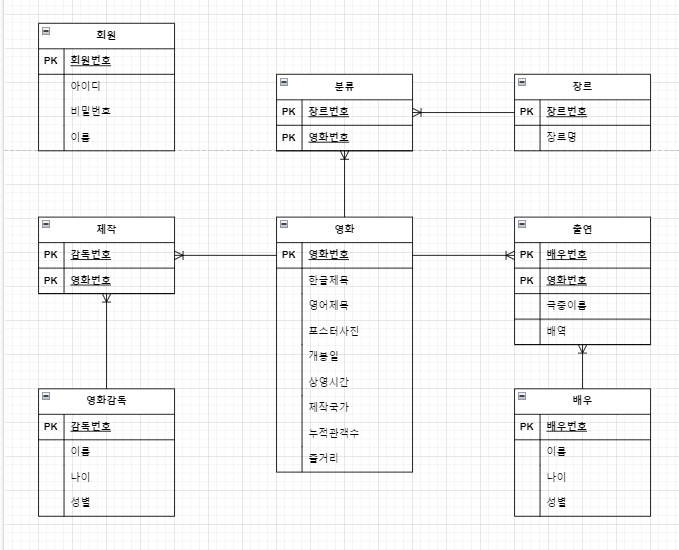
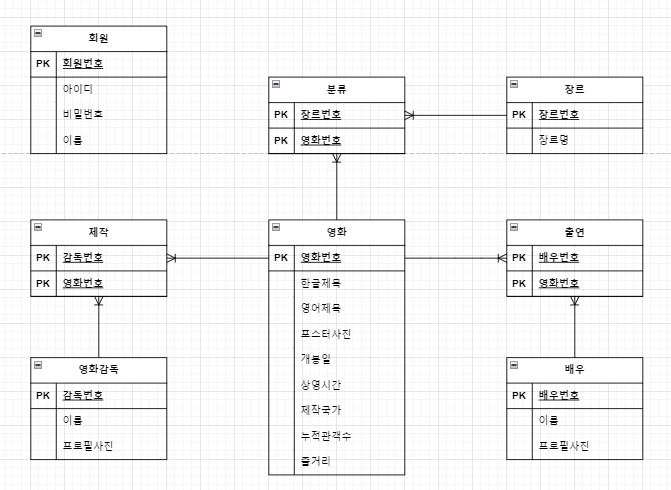
Update 01

diff --git a/_posts/2024-02-04-movie-01.md b/_posts/2024-02-04-movie-01.md
@@ -51,8 +51,8 @@ MVP 모델의 기능으로 로그인, 회원가입, 영화 정보 제공 3가지
   - 상영시간
   - 제작국가
   - 누적관객수
-  - 영화감독 (이름, 나이, 성별)
-  - 배우 (이름, 나이, 성별, 극중이름, 배역)
+  - 영화감독 (이름, 프로필사진)
+  - 배우 (이름, 프로필사진)
   - 줄거리
 
 ---
@@ -67,13 +67,13 @@ MVP 모델의 기능으로 로그인, 회원가입, 영화 정보 제공 3가지
 
 먼저 요구사항을 정리합니다.
 
-1. 영화에 대해서는 포스터사진, 한글제목, 영어제목, 장르, 개봉일, 상영시간, 제작국가, 누적관객수, 줄거리, 배우, 감독 등의 정보가 유지되어야합니다.
+1. 영화에 대해서는 포스터사진, 한글제목, 영어제목, 개봉일, 상영시간, 제작국가, 누적관객수, 줄거리, 장르, 배우, 감독 등의 정보가 유지되어야합니다.
 
-2. 영화감독에 대해서는 이름, 나이, 성별 등의 정보가 유지되어야합니다.
+2. 영화감독에 대해서는 이름, 프로필사진 등의 정보가 유지되어야합니다.
 
 3. 한 영화를 여러 영화감독들이 제작할 수 있습니다.
 
-4. 배우에 대해서는 이름, 나이, 성별 등의 정보가 유지되어야 합니다.
+4. 배우에 대해서는 이름, 프로필사진 등의 정보가 유지되어야 합니다.
 
 5. 한 영화에는 여러 배우들이 출연할 수 있으며 극중이름과 배역이 정해집니다.
 
@@ -85,9 +85,9 @@ MVP 모델의 기능으로 로그인, 회원가입, 영화 정보 제공 3가지
 
 - 요구사항 1번에서 **영화 엔티티**의 속성으로 **영화번호**, **한글제목**, **영어제목**, **포스터사진**, **장르**, **개봉일**, **상영시간**, **제작국가**, **누적관객수**, **줄거리**를 얻을 수 있습니다.
 
-- 요구사항 2번에서 **영화감독 엔티티**의 속성으로 **감독번호**, **이름**, **나이**, **성별**을 얻을 수 있습니다.
+- 요구사항 2번에서 **영화감독 엔티티**의 속성으로 **감독번호**, **이름**, **프로필사진**을 얻을 수 있습니다.
 
-- 요구사항 4번에서 **배우 엔티티**의 속성으로 **배우번호**, **이름**, **나이**, **성별**을 얻을 수 있습니다.
+- 요구사항 4번에서 **배우 엔티티**의 속성으로 **배우번호**, **이름**, **프로필사진**을 얻을 수 있습니다.
 
 - 요구사항 6번에서 **회원 엔티티**의 속성으로 **회원번호**, **아이디**, **비밀번호**, **이름**을 얻을 수 있습니다.
 
@@ -146,12 +146,28 @@ ER 다이어그램을 기반으로 테이블 명세서를 작성하기전 정규
 
 릴레이션 스키마로 변환은 생략하고 ER 다이어그램에서 바로 테이블 명세서를 작성해보겠습니다.
 
-![movie-table-specs-01](/assets/img/ex-01-table-specs-01.png)
+![movie-table-specs-01](/assets/img/movie-table-specs-01.png)
 
-![movie-table-specs-02](/assets/img/ex-01-table-specs-02.png)
+![movie-table-specs-02](/assets/img/movie-table-specs-02.png)
 
 ---
 
 마지막으로 DB 명명 규칙에 따라 변환한 테이블 명세서를 작성합니다.
 
 > 참고 글 : [DB 명명 규칙](https://psmin1994.github.io/posts/db-naming/)
+
+![movie-table-specs-03](/assets/img/movie-table-specs-03.png)
+
+![movie-table-specs-04](/assets/img/movie-table-specs-04.png)
+
+---
+
+### 물리적 데이터 모델링
+
+이제 Workbench에 테이블 명세서를 바탕으로 ER 다이어그램을 작성합니다
+
+> 참고 글 : [물리적 데이터 모델링](https://psmin1994.github.io/posts/physical-modeling/)
+
+Workbench의 **Forward Engineer**를 활용해 테이블을 생성하겠습니다.
+
+![movie-workbench-erd](/assets/img/movie-workbench-erd.png)

diff --git a/_posts/2023-05-09-data-modeling-ex.md b/_posts/2023-05-09-data-modeling-ex.md
@@ -134,7 +134,7 @@ tags: [Workbench, ERD]
 
 속성의 **데이터 타입**, **길이**, **Null 값 허용 여부**, **기본 값**, **제약 조건** 등을 세부적으로 결정합니다.
 
-![ex-01-table-specs-01](/assets/img/ex-01-table-specs-01.png){: }
+![ex-01-table-specs-01](/assets/img/ex-01-table-specs-01.png)
 
 ---
 
@@ -202,13 +202,13 @@ tags: [Workbench, ERD]
 
 > 참고 글 : [DB 명명 규칙](https://psmin1994.github.io/posts/db-naming/)
 
-![ex-01-table-specs-02](/assets/img/ex-01-table-specs-02.png){: }
+![ex-01-table-specs-02](/assets/img/ex-01-table-specs-02.png)
 
 이제 Workbench에 테이블 명세서를 바탕으로 ER 다이어그램을 작성합니다.
 
 > 참고 글 : [물리적 데이터 모델링](https://psmin1994.github.io/posts/physical-modeling/)
 
-![ex-01-workbench-erd](/assets/img/ex-01-workbench-erd.png){: }
+![ex-01-workbench-erd](/assets/img/ex-01-workbench-erd.png)
 
 Workbench의 **Forward Engineer**를 활용해 테이블을 생성합니다.
 
